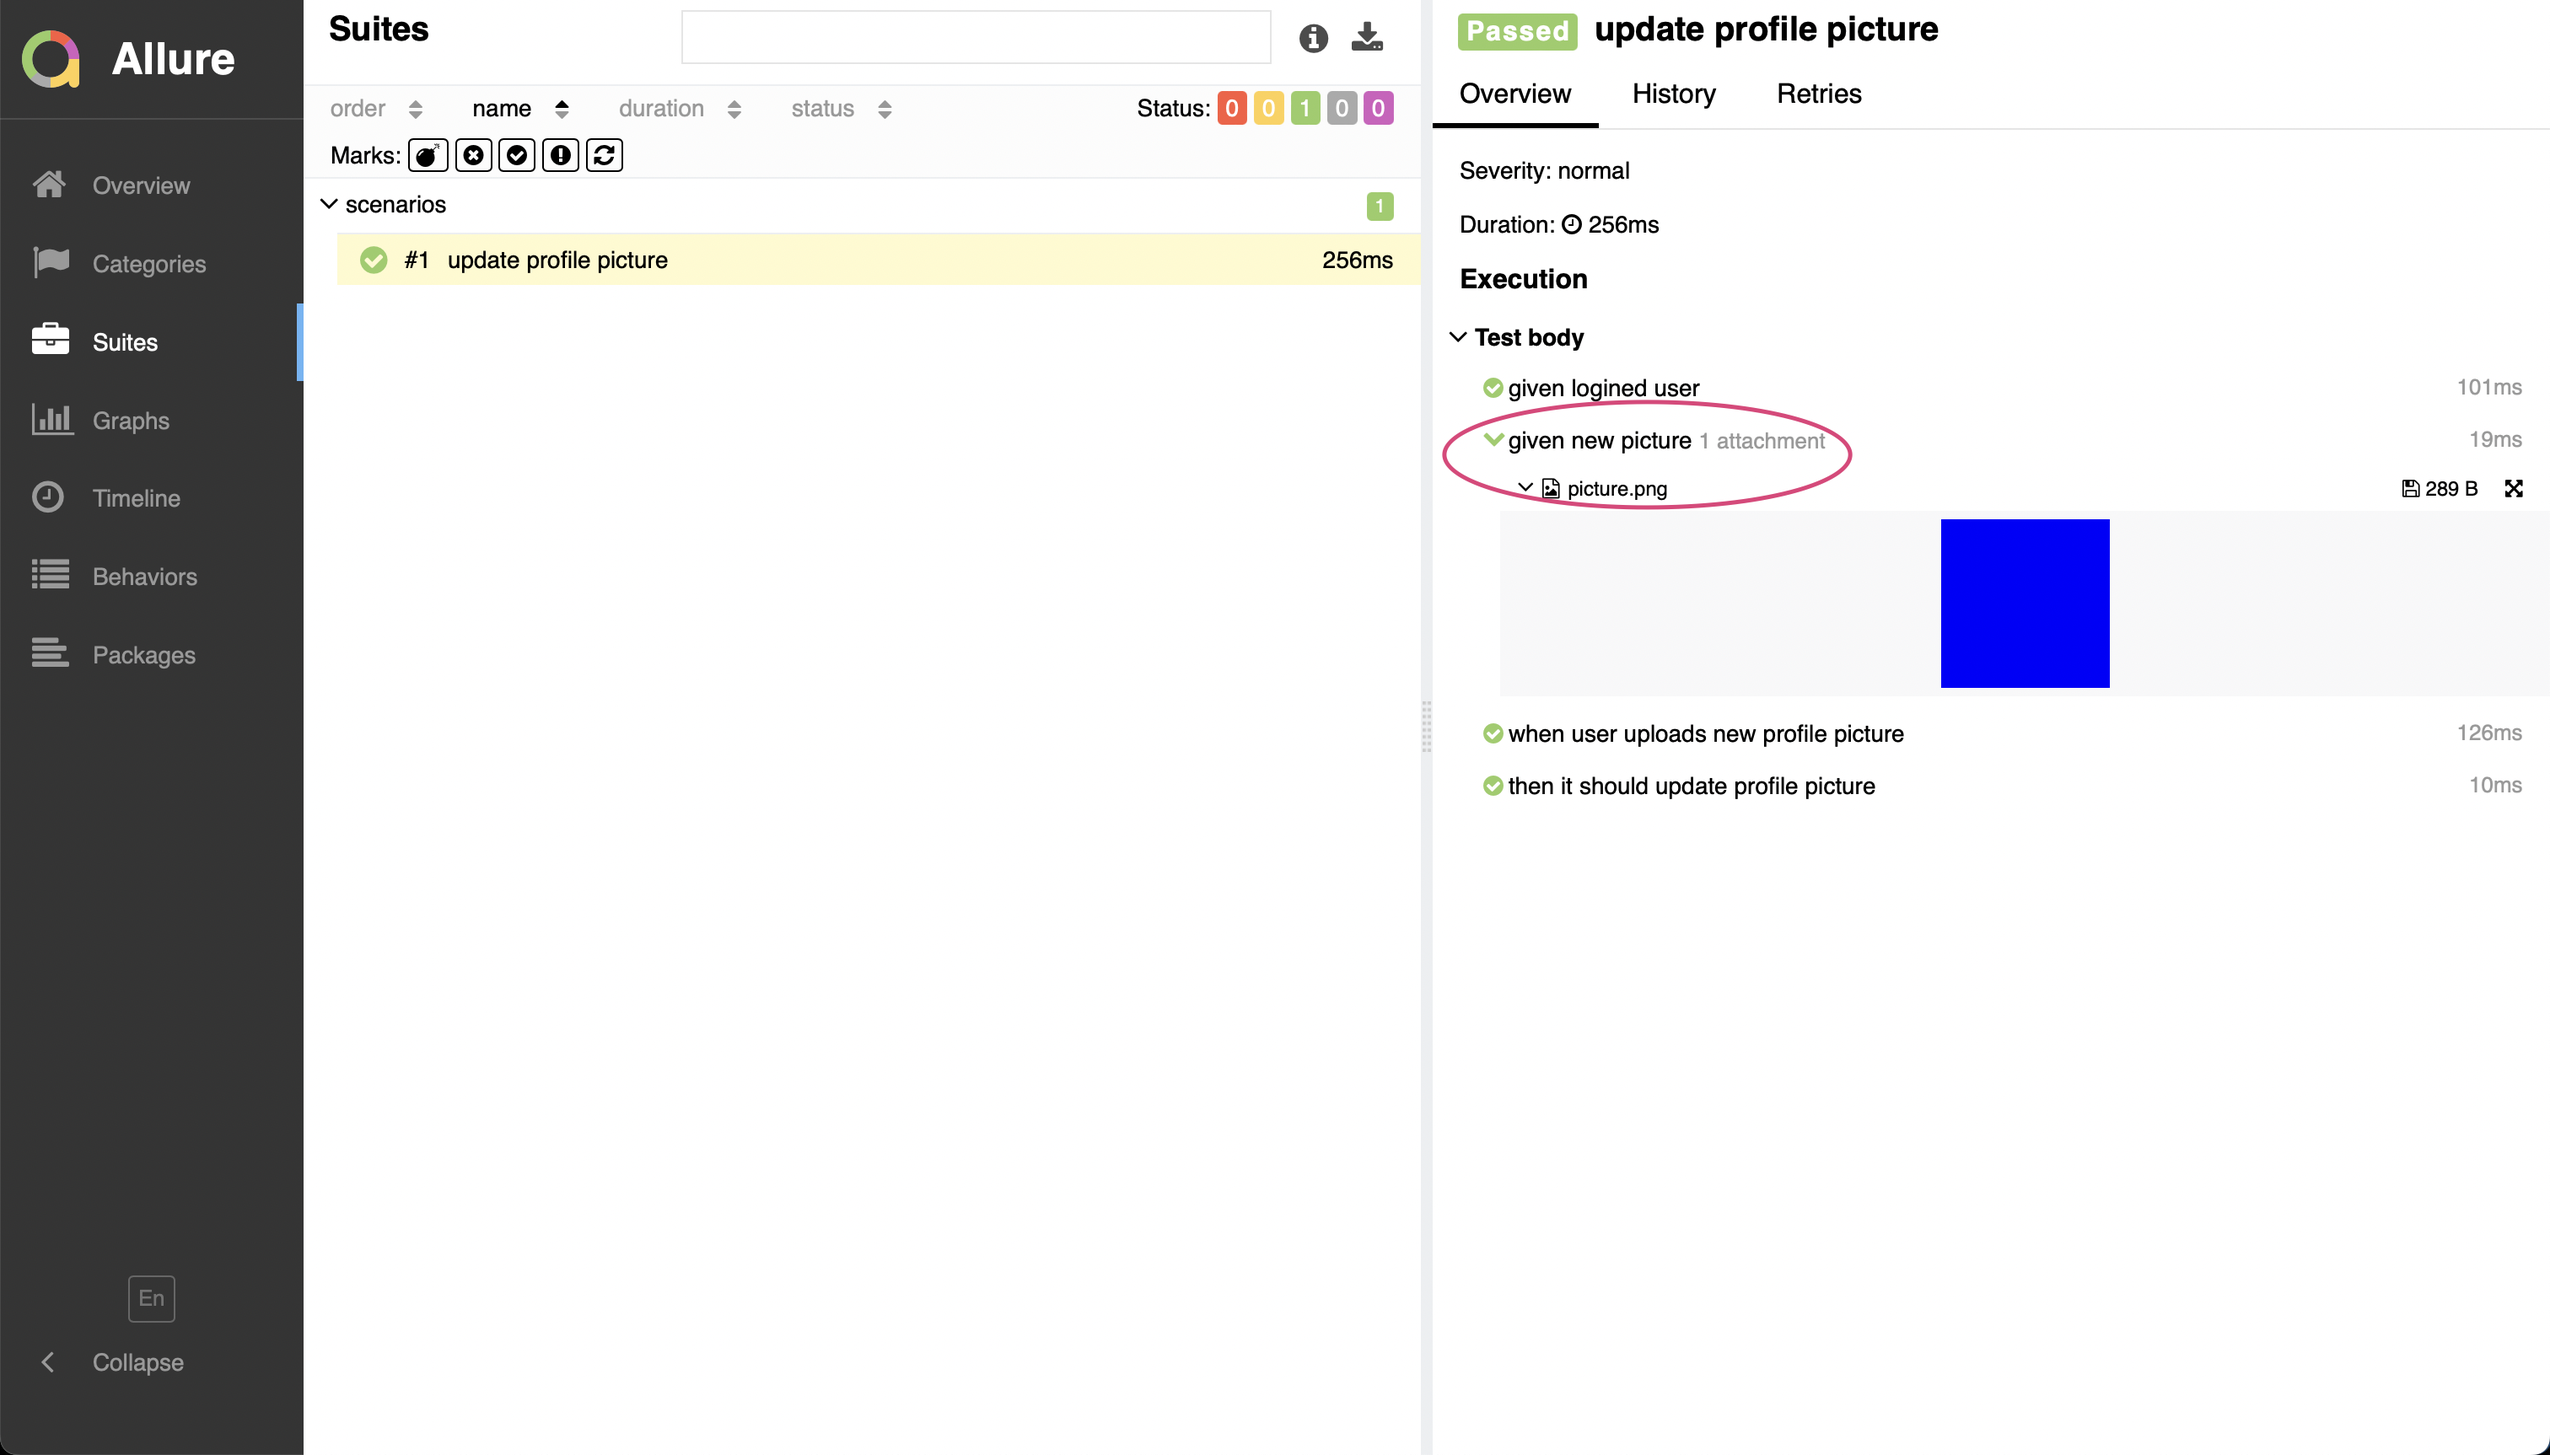
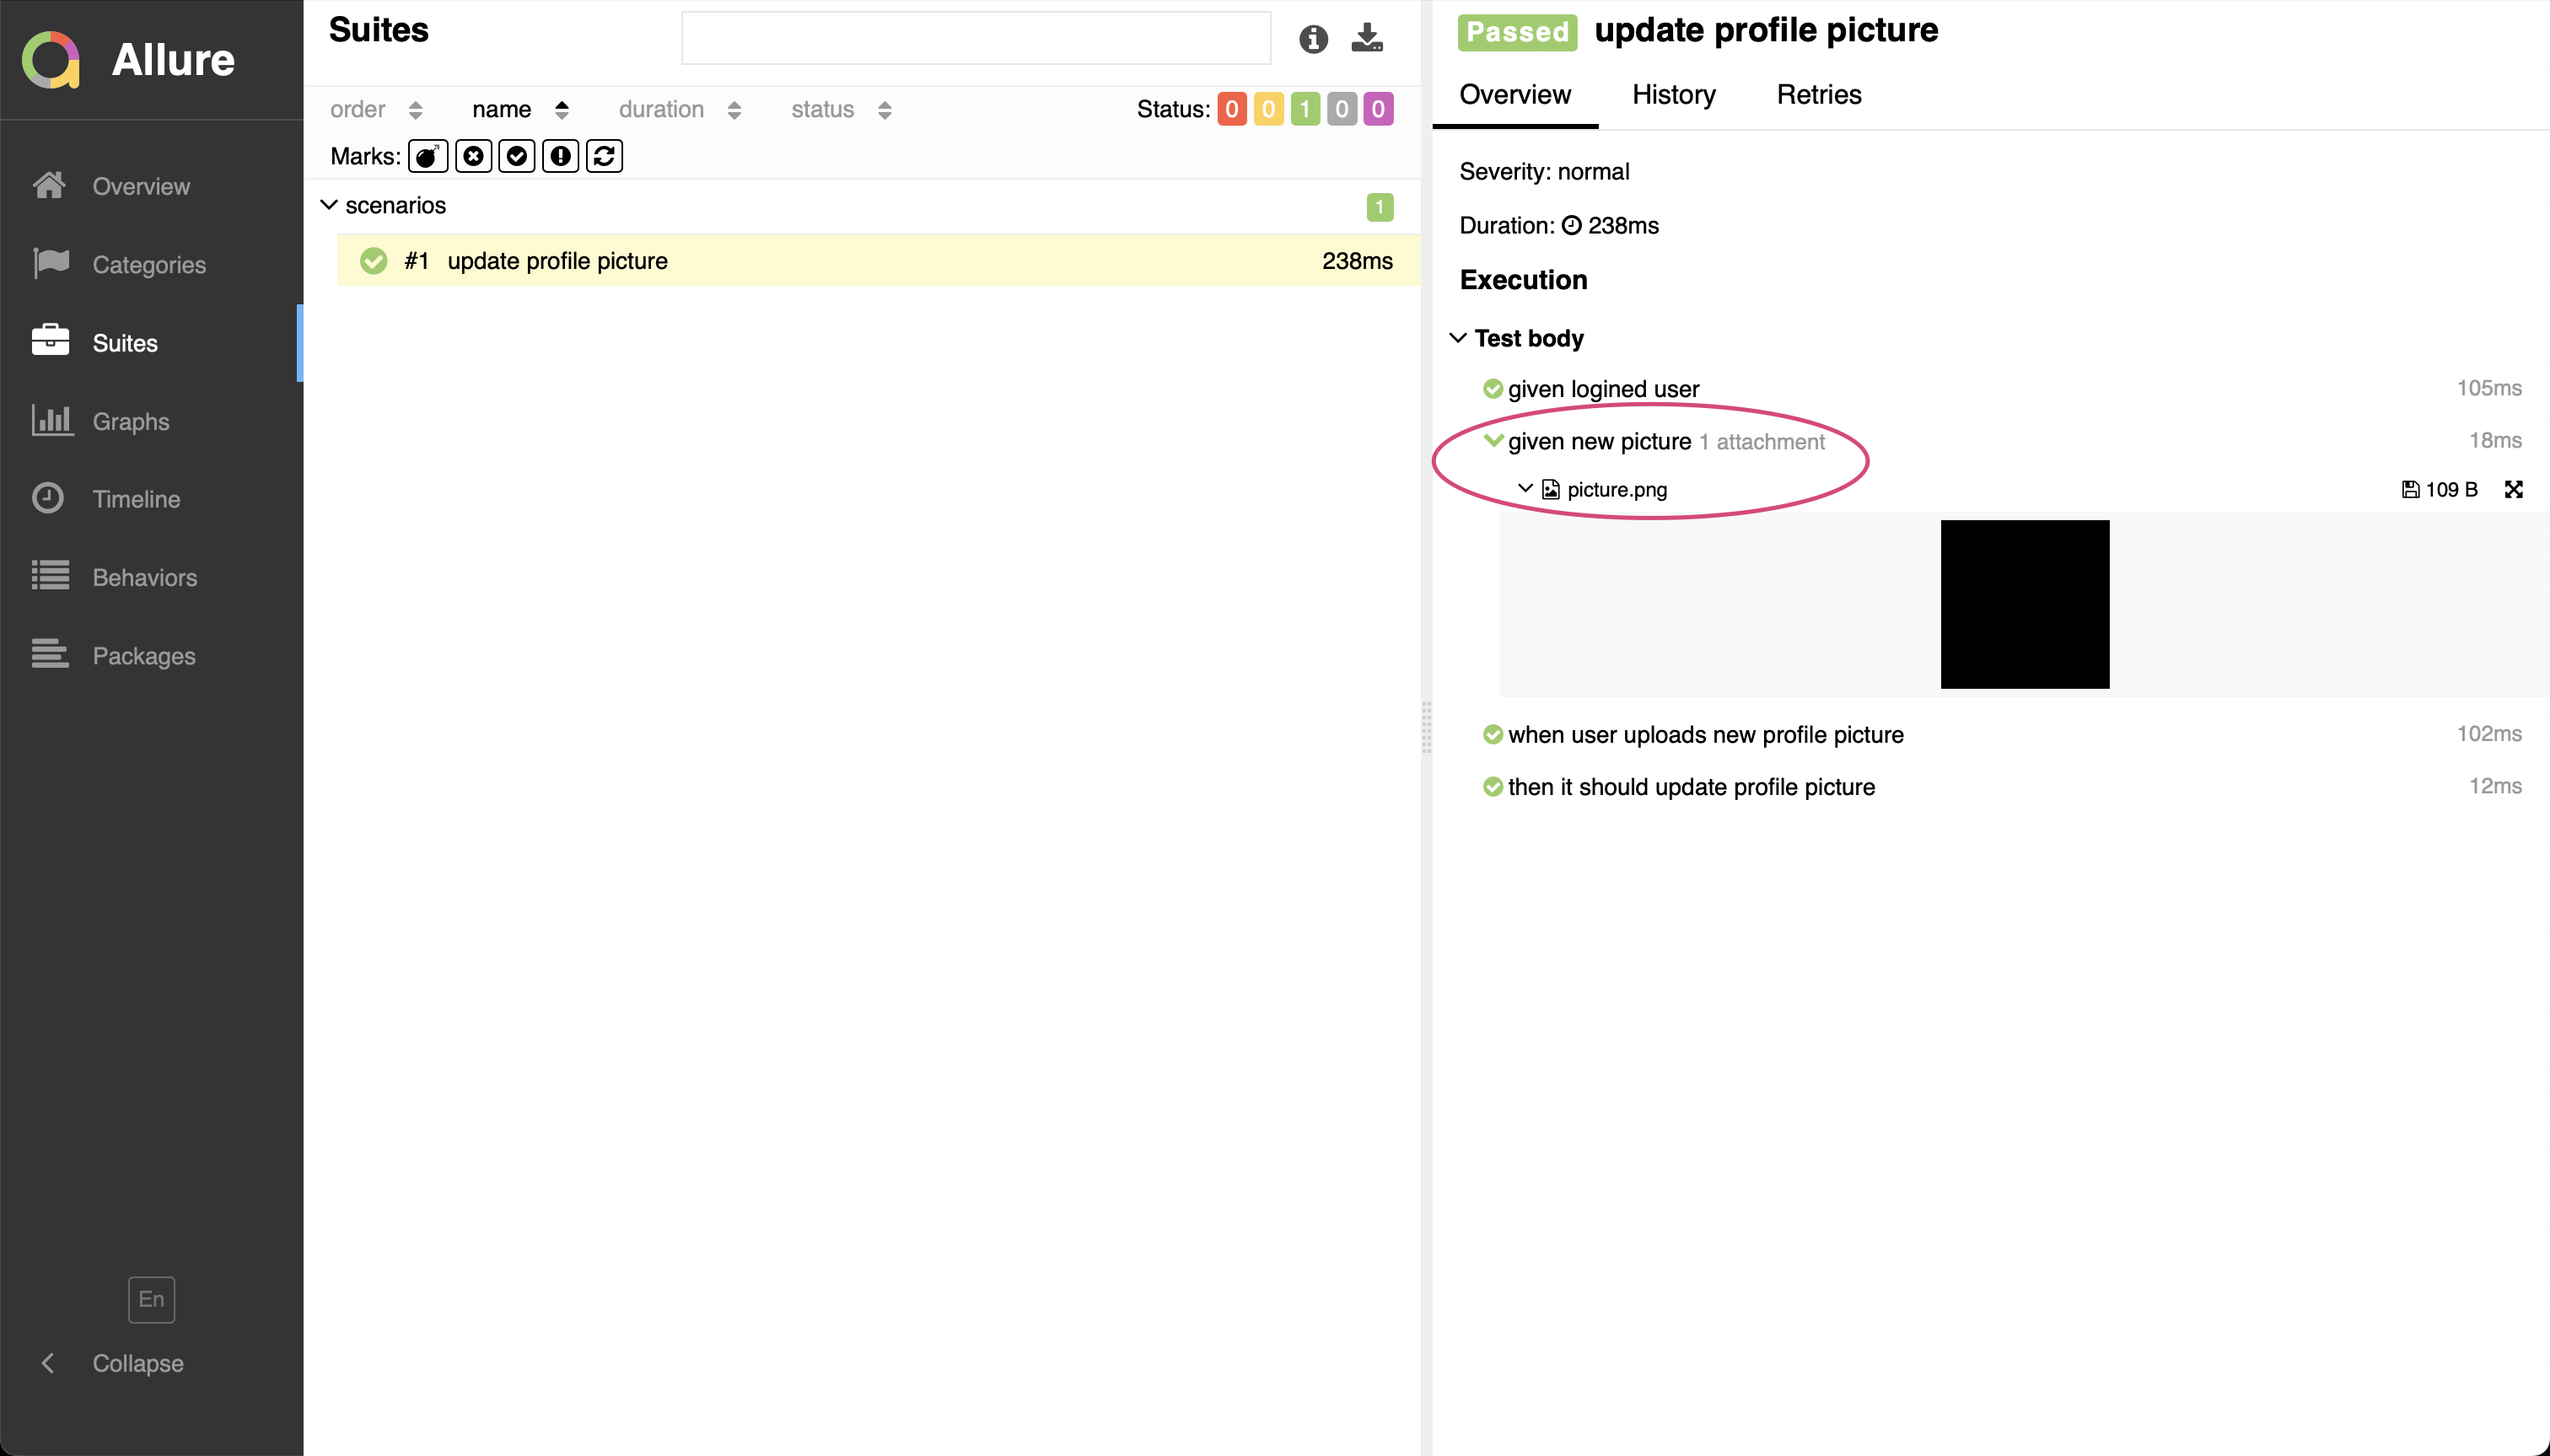
update allure docs

diff --git a/docs/integrations/allure-reporter.md b/docs/integrations/allure-reporter.md
@@ -8,15 +8,48 @@ import Screenshot from '@site/src/components/Screenshot';
 
 # Allure Reporter
 
-[Allure Framework](https://docs.qameta.io/allure/) is a flexible, lightweight, multi-language test report tool that offers a concise representation of test results in a clean web report.
+[Allure Reporter](https://pypi.org/project/vedro-allure-reporter/) is a plugin for [Vedro](https://pypi.org/project/vedro/) that provides integration with the [Allure Framework](https://docs.qameta.io/allure/), a flexible, lightweight, multi-language test report tool. The Allure Framework offers a concise representation of test results in a clean, easily understandable web report format.
 
 ## Installation
 
-To install the [Allure Reporter](https://pypi.org/project/vedro-allure-reporter/), use a plugin manager like this:
+<Tabs>
+  <TabItem value="quick" label="Quick" default>
+
+For a quick installation, you can use a plugin manager like so:
 
 ```shell
 $ vedro plugin install vedro-allure-reporter
 ```
+
+  </TabItem>
+  <TabItem value="manual" label="Manual">
+
+If you prefer a manual approach, follow these steps:
+
+1. Install the package using pip:
+
+```shell
+$ pip3 install vedro-allure-reporter
+```
+
+2. Then, enable the plugin in the `vedro.cfg.py` configuration file:
+
+```python
+# ./vedro.cfg.py
+import vedro
+import vedro_allure_reporter
+
+
+class Config(vedro.Config):
+
+    class Plugins(vedro.Config.Plugins):
+
+        class AllureReporter(vedro_allure_reporter.AllureReporter):
+            enabled = True
+```
+
+  </TabItem>
+</Tabs>
 
 ## Basic Usage
 
@@ -38,7 +71,7 @@ This command will serve up the report ([demo](https://allure-framework.github.io
 
 :::info
 
-If you are using [Allure TestOps](https://docs.qameta.io/allure-testops/), you can upload your report using [allurectl](https://docs.qameta.io/allure-testops/ecosystem/allurectl/).
+If you are using [Allure TestOps](https://docs.qameta.io/allure-testops/), you can upload your report using [allurectl](https://docs.qameta.io/allure-testops/ecosystem/allurectl/)
 
 <details>
   <summary>Show more...</summary>
@@ -77,12 +110,10 @@ from vedro_allure_reporter import allure_labels, Story, Epic, Feature
 class Scenario(vedro.Scenario):
     subject = "update profile picture"
 
+    ...
 ```
 
 In addition to the built-in labels, Allure also allows you to create custom labels:
-
-<Tabs>
-  <TabItem value="scenario" label="Scenario" default>
 
 ```python
 import vedro
@@ -92,29 +123,8 @@ from vedro_allure_reporter import allure_labels, AllureLabel
 class Scenario(vedro.Scenario):
     subject = "update profile picture"
 
+    ...
 ```
-
-  </TabItem>
-  <TabItem value="parameterized_scenario" label="Parameterized">
-
-```python
-import vedro
-from vedro import params
-from vedro_allure_reporter import allure_labels, AllureLabel
-
-smoke = allure_labels(AllureLabel("smoke", "true"))
-
-class Scenario(vedro.Scenario):
-    subject = "update profile picture {format}"
-
-    @params[smoke]("png")
-    @params[smoke]("jpg")
-    def __init__(self, format):
-        self.format = format
-```
-
-  </TabItem>
-</Tabs>
 
 ## Configuration
 
@@ -183,7 +193,7 @@ from pathlib import Path
 
 @vedro.context
 def generated_profile_picture(filename="picture.png") -> Image:
-    image = Image.new("RGB", size=(100, 100), color=(0, 0, 255))
+    image = Image.new("RGB", size=(100, 100))
     image.save(filename, format="png")
 
     artifact = FileArtifact(filename, "image/png", Path(filename))
@@ -204,7 +214,7 @@ from io import BytesIO
 @vedro.context
 def generated_profile_picture(filename="picture.png") -> Image:
     binary = BytesIO()
-    image = Image.new("RGB", size=(100, 100), color=(0, 0, 255))
+    image = Image.new("RGB", size=(100, 100))
     image.save(binary, format="png")
 
     artifact = MemoryArtifact(filename, "image/png", binary.getvalue())
